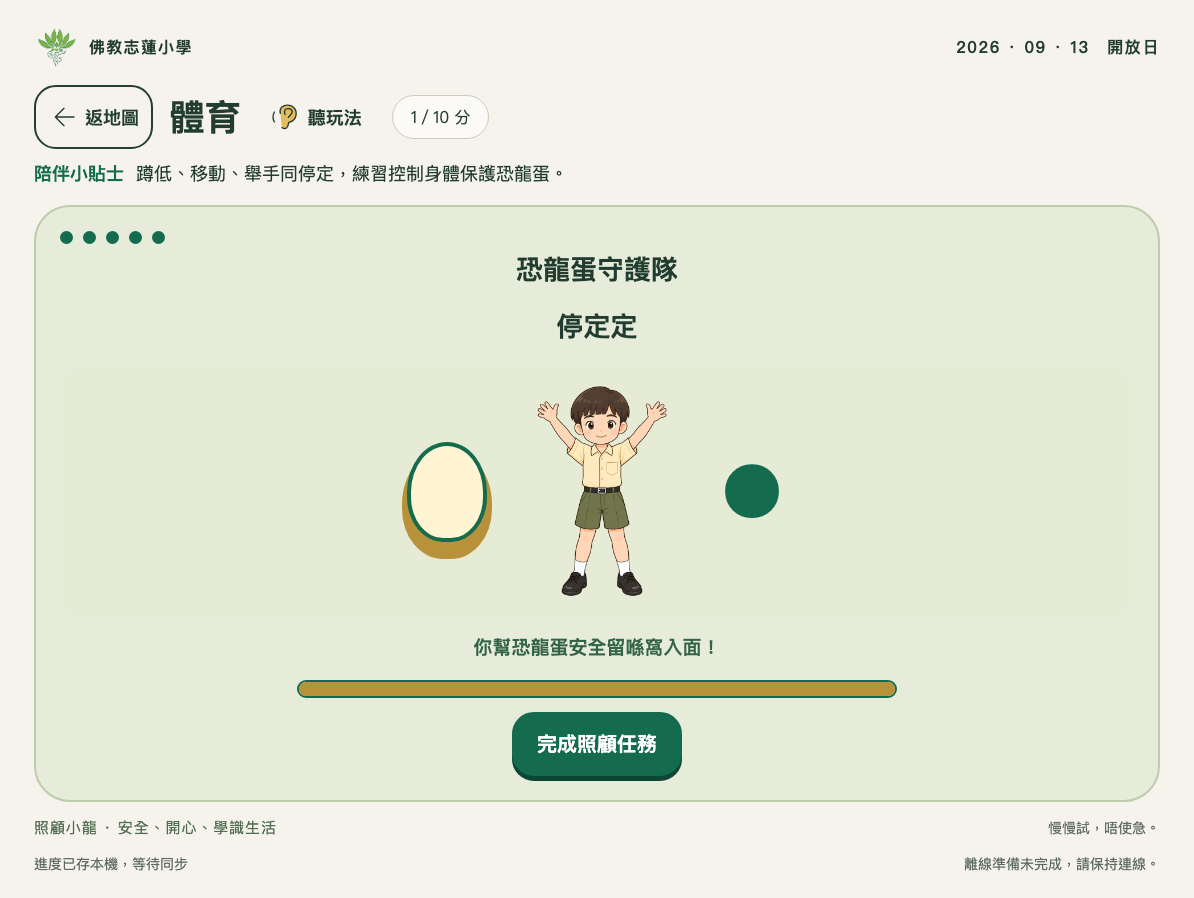
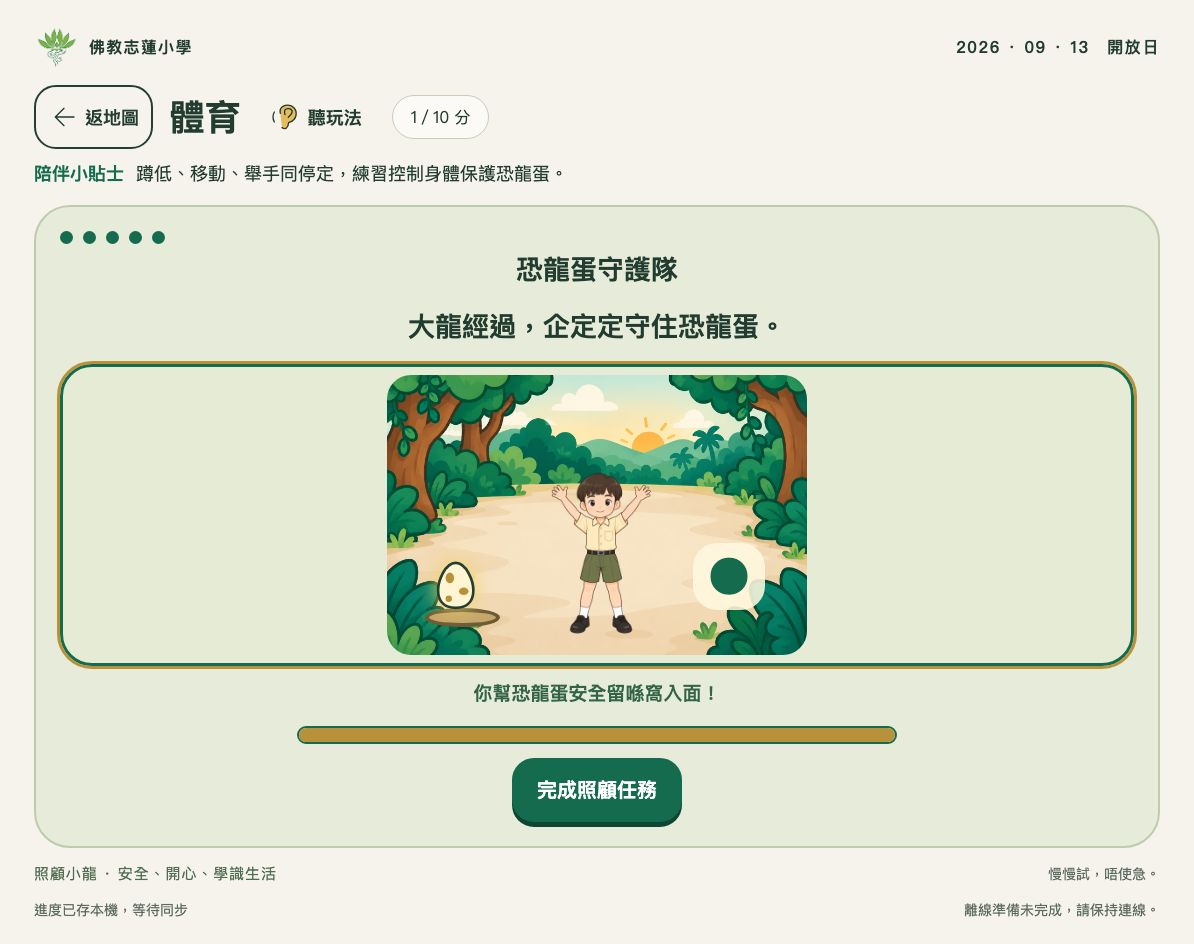
feat: illustrate PE egg protection scenes and obstacle cues

Changed region(s): [[0.031, 0.0312, 0.9606, 0.9978], [0.8677, 0.0312, 0.9916, 0.0624], [0.8057, 0.0312, 0.8367, 0.0624]]

diff --git a/sw.js b/sw.js
@@ -1,7 +1,7 @@
 // Generated precache manifest. Rebuild whenever local assets change.
-const CACHE='dino-island-d1b75bf20b89';
+const CACHE='dino-island-9cf482192c09';
 const BASE=new URL('./',self.location.href);
-const ASSETS=["board/board.css","board/board.js","board/img/board-skin.png","board/index.html","hub/app.js","hub/audio/en/actions/freeze.wav","hub/audio/en/actions/hands.wav","hub/audio/en/actions/jump.wav","hub/audio/en/actions/left.wav","hub/audio/en/actions/right.wav","hub/audio/en/actions/sit.wav","hub/audio/en/actions/stand.wav","hub/audio/yue/actions/freeze.wav","hub/audio/yue/actions/hands.wav","hub/audio/yue/actions/left.wav","hub/audio/yue/actions/right.wav","hub/audio/yue/actions/sit.wav","hub/audio/yue/characters/fire.wav","hub/audio/yue/characters/moon.wav","hub/audio/yue/characters/mountain.wav","hub/audio/yue/characters/sun.wav","hub/audio/yue/characters/water.wav","hub/audio/yue/characters/wood.wav","hub/audio/yue/common/complete.wav","hub/audio/yue/common/hint.wav","hub/audio/yue/common/retry.wav","hub/audio/yue/common/welcome.wav","hub/audio/yue/intro/art.wav","hub/audio/yue/intro/chinese.wav","hub/audio/yue/intro/computing.wav","hub/audio/yue/intro/english.wav","hub/audio/yue/intro/general.wav","hub/audio/yue/intro/humanities.wav","hub/audio/yue/intro/mandarin.wav","hub/audio/yue/intro/math.wav","hub/audio/yue/intro/music.wav","hub/audio/yue/intro/pe.wav","hub/audio/yue/intro/science.wav","hub/audio/zh-CN/greetings/goodbye.wav","hub/audio/zh-CN/greetings/hello.wav","hub/audio/zh-CN/greetings/morning.wav","hub/audio/zh-CN/greetings/please.wav","hub/audio/zh-CN/greetings/thanks.wav","hub/audio/zh-CN/greetings/welcome.wav","hub/certificate.js","hub/games.js","hub/img/chars/dino-baby-eat.png","hub/img/chars/dino-baby-sleep.png","hub/img/chars/dino-baby.png","hub/img/chars/landmark-hatch.png","hub/img/chars/landmark-longneck.png","hub/img/chars/landmark-triceratops.png","hub/img/chars/xiaolian-clap.png","hub/img/chars/xiaolian-color.png","hub/img/chars/xiaolian-highfive.png","hub/img/chars/xiaolian-point.png","hub/img/chars/xiaolian-welcome.png","hub/img/chars/xiaolian-write.png","hub/img/chars/xiaozhi-highfive.png","hub/img/chars/xiaozhi-jump.png","hub/img/chars/xiaozhi-run.png","hub/img/chars/xiaozhi-sit.png","hub/img/chars/xiaozhi-step.png","hub/img/chars/xiaozhi-stretch.png","hub/img/chars/xiaozhi-tablet.png","hub/img/chars/xiaozhi-welcome.png","hub/img/games/art/egg-studio.png","hub/img/games/chinese/mountain.png","hub/img/games/chinese/river.png","hub/img/games/chinese/volcano.png","hub/img/games/general/bedtime.png","hub/img/games/general/daytime.png","hub/img/games/general/morning.png","hub/img/games/humanities/river-centre.png","hub/img/games/humanities/safe-forest.png","hub/img/games/humanities/volcano-edge.png","hub/img/games/mandarin/village.png","hub/img/games/math/feeding-garden.png","hub/img/games/music/music-stage.png","hub/img/games/science/excavation.png","hub/img/map/island-path.png","hub/img/ui/cert-frame.png","hub/index.html","hub/modules/art.js","hub/modules/chinese-scenes.js","hub/modules/computing.js","hub/modules/fossil-art.js","hub/modules/general.js","hub/modules/humanities.js","hub/modules/mandarin.js","hub/modules/math.js","hub/modules/motion.js","hub/modules/music.js","hub/modules/science.js","hub/park-guides.js","index.html","setup/index.html","shared/certificate-link.js","shared/config.js","shared/core.js","shared/game-clock-gate.js","shared/game-state.js","shared/icons.js","shared/img/school-logo.png","shared/models/pose-landmarker-lite-v1.task","shared/network.js","shared/offline.js","shared/pose-actions.js","shared/pose-camera.js","shared/qrcode.js","shared/recorder.js","shared/sequence.js","shared/storage.js","shared/style.css","shared/vendor/mediapipe/vision-bundle.js","shared/vendor/mediapipe/wasm/vision_wasm_internal.js","shared/vendor/mediapipe/wasm/vision_wasm_internal.wasm","shared/vendor/mediapipe/wasm/vision_wasm_nosimd_internal.js","shared/vendor/mediapipe/wasm/vision_wasm_nosimd_internal.wasm","shared/voice.js","hub/","board/","setup/"].map(p=>new URL(p,BASE).href);
+const ASSETS=["board/board.css","board/board.js","board/img/board-skin.png","board/index.html","hub/app.js","hub/audio/en/actions/freeze.wav","hub/audio/en/actions/hands.wav","hub/audio/en/actions/jump.wav","hub/audio/en/actions/left.wav","hub/audio/en/actions/right.wav","hub/audio/en/actions/sit.wav","hub/audio/en/actions/stand.wav","hub/audio/yue/actions/freeze.wav","hub/audio/yue/actions/hands.wav","hub/audio/yue/actions/left.wav","hub/audio/yue/actions/right.wav","hub/audio/yue/actions/sit.wav","hub/audio/yue/characters/fire.wav","hub/audio/yue/characters/moon.wav","hub/audio/yue/characters/mountain.wav","hub/audio/yue/characters/sun.wav","hub/audio/yue/characters/water.wav","hub/audio/yue/characters/wood.wav","hub/audio/yue/common/complete.wav","hub/audio/yue/common/hint.wav","hub/audio/yue/common/retry.wav","hub/audio/yue/common/welcome.wav","hub/audio/yue/intro/art.wav","hub/audio/yue/intro/chinese.wav","hub/audio/yue/intro/computing.wav","hub/audio/yue/intro/english.wav","hub/audio/yue/intro/general.wav","hub/audio/yue/intro/humanities.wav","hub/audio/yue/intro/mandarin.wav","hub/audio/yue/intro/math.wav","hub/audio/yue/intro/music.wav","hub/audio/yue/intro/pe.wav","hub/audio/yue/intro/science.wav","hub/audio/zh-CN/greetings/goodbye.wav","hub/audio/zh-CN/greetings/hello.wav","hub/audio/zh-CN/greetings/morning.wav","hub/audio/zh-CN/greetings/please.wav","hub/audio/zh-CN/greetings/thanks.wav","hub/audio/zh-CN/greetings/welcome.wav","hub/certificate.js","hub/games.js","hub/img/chars/dino-baby-eat.png","hub/img/chars/dino-baby-sleep.png","hub/img/chars/dino-baby.png","hub/img/chars/landmark-hatch.png","hub/img/chars/landmark-longneck.png","hub/img/chars/landmark-triceratops.png","hub/img/chars/xiaolian-clap.png","hub/img/chars/xiaolian-color.png","hub/img/chars/xiaolian-highfive.png","hub/img/chars/xiaolian-point.png","hub/img/chars/xiaolian-welcome.png","hub/img/chars/xiaolian-write.png","hub/img/chars/xiaozhi-highfive.png","hub/img/chars/xiaozhi-jump.png","hub/img/chars/xiaozhi-run.png","hub/img/chars/xiaozhi-sit.png","hub/img/chars/xiaozhi-step.png","hub/img/chars/xiaozhi-stretch.png","hub/img/chars/xiaozhi-tablet.png","hub/img/chars/xiaozhi-welcome.png","hub/img/games/art/egg-studio.png","hub/img/games/chinese/mountain.png","hub/img/games/chinese/river.png","hub/img/games/chinese/volcano.png","hub/img/games/general/bedtime.png","hub/img/games/general/daytime.png","hub/img/games/general/morning.png","hub/img/games/humanities/river-centre.png","hub/img/games/humanities/safe-forest.png","hub/img/games/humanities/volcano-edge.png","hub/img/games/mandarin/village.png","hub/img/games/math/feeding-garden.png","hub/img/games/music/music-stage.png","hub/img/games/pe/forest-arena.png","hub/img/games/pe/forest-visitor.png","hub/img/games/science/excavation.png","hub/img/map/island-path.png","hub/img/ui/cert-frame.png","hub/index.html","hub/modules/art.js","hub/modules/chinese-scenes.js","hub/modules/computing.js","hub/modules/fossil-art.js","hub/modules/general.js","hub/modules/humanities.js","hub/modules/mandarin.js","hub/modules/math.js","hub/modules/motion.js","hub/modules/music.js","hub/modules/pe-scene.js","hub/modules/science.js","hub/park-guides.js","index.html","setup/index.html","shared/certificate-link.js","shared/config.js","shared/core.js","shared/game-clock-gate.js","shared/game-state.js","shared/icons.js","shared/img/school-logo.png","shared/models/pose-landmarker-lite-v1.task","shared/network.js","shared/offline.js","shared/pose-actions.js","shared/pose-camera.js","shared/qrcode.js","shared/recorder.js","shared/sequence.js","shared/storage.js","shared/style.css","shared/vendor/mediapipe/vision-bundle.js","shared/vendor/mediapipe/wasm/vision_wasm_internal.js","shared/vendor/mediapipe/wasm/vision_wasm_internal.wasm","shared/vendor/mediapipe/wasm/vision_wasm_nosimd_internal.js","shared/vendor/mediapipe/wasm/vision_wasm_nosimd_internal.wasm","shared/voice.js","hub/","board/","setup/"].map(p=>new URL(p,BASE).href);
 self.addEventListener('install',e=>e.waitUntil(caches.open(CACHE).then(c=>c.addAll(ASSETS))));
 self.addEventListener('activate',e=>e.waitUntil(Promise.all([caches.keys().then(keys=>Promise.all(keys.filter(k=>k.startsWith('dino-island-')&&k!==CACHE).map(k=>caches.delete(k)))),self.clients.claim()])));
 self.addEventListener('message',e=>{if(e.data?.type!=='CHECK_OFFLINE'||!e.ports[0])return;e.waitUntil(caches.open(CACHE).then(async c=>{const present=await Promise.all(ASSETS.map(url=>c.match(url)));e.ports[0].postMessage({type:'OFFLINE_STATUS',version:CACHE,complete:present.every(Boolean),missing:present.filter(r=>!r).length,total:ASSETS.length});}).catch(()=>e.ports[0].postMessage({type:'OFFLINE_STATUS',complete:false,missing:ASSETS.length,total:ASSETS.length})));});

diff --git a/hub/modules/motion.js b/hub/modules/motion.js
@@ -1,3 +1,4 @@
+import {peScene,peSituations} from './pe-scene.js';
 import {playVoice,stopVoice} from '../../shared/voice.js';
 import {poseCamera} from '../../shared/pose-camera.js';
 import {PoseActions} from '../../shared/pose-actions.js';
@@ -13,7 +14,7 @@ export function mountMotion(root,state,save,finish,lifecycle={},subject='english
  function stop(){request++;poseCamera.stop();cancelAnimationFrame(raf);raf=null;holdStart=null;holdPointer=null;last=null;stopVoice();}
  function render(){
   stopVoice();
-  root.innerHTML=`<div class="rounds" aria-label="第 ${state.round+1} 回合，共 ${sequence.length} 回合">${sequence.map((_,i)=>`<span class="round-dot ${i<=state.round?'done':''}"></span>`).join('')}</div><h2 class="game-instruction">${subject==='english'?'小龍講，你跟住做':'恐龍蛋守護隊'}</h2><p class="game-instruction">${labels[command()]}</p><div class="motion-stage action-${command()}">${subject==='pe'?'<div class="protected-egg" aria-label="要保護嘅恐龍蛋"></div>':''}<img class="character motion-guide" src="img/chars/${subject==='english'?'dino-baby':'xiaozhi-stretch'}.png" alt="動作示範角色"><span class="motion-cue" aria-hidden="true">${cues[command()]}</span><video class="motion-camera" autoplay muted playsinline ${mode==='camera'||mode==='loading'?'':'hidden'} aria-label="本機鏡像動作畫面"></video></div><p class="feedback" role="status">${mode==='success'?(subject==='pe'?'你幫恐龍蛋安全留喺窩入面！':'你聽指令同小龍一齊郁身，小龍好開心！'):mode==='choose'?'平板放穩，家長陪住，預留郁身位置。':mode==='paused'?'鏡頭同計時已暫停，返嚟再準備。':mode==='family'?'一齊跟示範做，倒數完再長按確認。':'準備鏡頭同本機辨識，請稍等。'}</p><div class="motion-progress" role="progressbar" aria-label="動作進度" aria-valuemin="0" aria-valuemax="100" aria-valuenow="0"><span></span></div><div class="actions">${['choose','paused'].includes(mode)?'<button id="motion-camera-start" class="primary">用鏡頭一齊玩</button>':''}${mode!=='success'&&mode!=='family'?'<button id="motion-family" class="'+(state.motionAttempts>=3?'motion-help-highlight':'')+'">同家長一齊做</button>':''}${mode!=='success'?'<button id="motion-listen">聽指令</button>':''}${mode==='family'?'<span class="motion-countdown" aria-live="polite">5</span><button class="primary" id="motion-hold" disabled>準備一齊做</button>':''}${mode==='success'?`<button id="motion-next" class="primary">${state.round===sequence.length-1?'完成照顧任務':'下一個動作'}</button>`:''}</div>`;
+  root.innerHTML=`<div class="rounds" aria-label="第 ${state.round+1} 回合，共 ${sequence.length} 回合">${sequence.map((_,i)=>`<span class="round-dot ${i<=state.round?'done':''}"></span>`).join('')}</div><h2 class="game-instruction">${subject==='english'?'小龍講，你跟住做':'恐龍蛋守護隊'}</h2><p class="game-instruction">${subject==='pe'?peSituations[command()]:labels[command()]}</p><div class="motion-stage action-${command()} ${subject==='pe'?'pe-stage':''} ${mode==='family'?'scene-running':''} ${mode==='success'?'scene-complete':''}">${subject==='pe'?'<div class="pe-scene">'+peScene(command(),mode==='success'):''}<img class="character motion-guide" src="img/chars/${subject==='english'?'dino-baby':'xiaozhi-stretch'}.png" alt="動作示範角色"><span class="motion-cue" aria-hidden="true">${cues[command()]}</span>${subject==='pe'?'</div>':''}<video class="motion-camera" autoplay muted playsinline ${mode==='camera'||mode==='loading'?'':'hidden'} aria-label="本機鏡像動作畫面"></video></div><p class="feedback" role="status">${mode==='success'?(subject==='pe'?'你幫恐龍蛋安全留喺窩入面！':'你聽指令同小龍一齊郁身，小龍好開心！'):mode==='choose'?'平板放穩，家長陪住，預留郁身位置。':mode==='paused'?'鏡頭同計時已暫停，返嚟再準備。':mode==='family'?'一齊跟示範做，倒數完再長按確認。':'準備鏡頭同本機辨識，請稍等。'}</p><div class="motion-progress" role="progressbar" aria-label="動作進度" aria-valuemin="0" aria-valuemax="100" aria-valuenow="0"><span></span></div><div class="actions">${['choose','paused'].includes(mode)?'<button id="motion-camera-start" class="primary">用鏡頭一齊玩</button>':''}${mode!=='success'&&mode!=='family'?'<button id="motion-family" class="'+(state.motionAttempts>=3?'motion-help-highlight':'')+'">同家長一齊做</button>':''}${mode!=='success'?'<button id="motion-listen">聽指令</button>':''}${mode==='family'?'<span class="motion-countdown" aria-live="polite">5</span><button class="primary" id="motion-hold" disabled>準備一齊做</button>':''}${mode==='success'?`<button id="motion-next" class="primary">${state.round===sequence.length-1?'完成照顧任務':'下一個動作'}</button>`:''}</div>`;
   root.querySelector('#motion-camera-start')?.addEventListener('click',launch);
   root.querySelector('#motion-family')?.addEventListener('click',family);
   root.querySelector('#motion-listen')?.addEventListener('click',()=>{playVoice(new URL(`../audio/${subject==='english'?'en':'yue'}/actions/${command()}.wav`,import.meta.url)).then(ok=>{if(!ok)status('指令聲音未能播放，可以跟住圖示同家長一齊做。');});});
@@ -26,7 +27,7 @@ export function mountMotion(root,state,save,finish,lifecycle={},subject='english
   try{
    await poseCamera.start(root.querySelector('video'),(poses,time)=>{
     if(!live||attempt!==request)return;const result=tracker.update(poses,time);
-    if(!commandStarted&&result.status==='ready'){tracker.setCommand(command());commandStarted=true;mode='camera';state.inputMode='camera';save();resume('motion-setup');resume('motion-transition');status('準備好啦，'+labels[command()]+'。');return;}
+    if(!commandStarted&&result.status==='ready'){tracker.setCommand(command());commandStarted=true;mode='camera';root.querySelector('.motion-stage').classList.add('scene-running');state.inputMode='camera';save();resume('motion-setup');resume('motion-transition');status('準備好啦，'+labels[command()]+'。');return;}
     if(!commandStarted){progress(result.progress);status(poseMessages[result.status]||'企定一陣，準備開始。');return;}
     if(result.status==='success'){success();return;}
     // One attempt is eight seconds of visible, confidently tracked movement.

diff --git a/shared/style.css b/shared/style.css
@@ -89,3 +89,27 @@
 .greeting-content{display:grid;grid-template-columns:1fr 1fr;gap:24px;align-items:center;margin-top:16px}
 .greeting-content .greeting-village{margin:0;width:100%}.greeting-dialogue .game-instruction{font-size:24px}.greeting-dialogue .actions{gap:12px}.greeting-dialogue button{font-size:19px;padding:10px 16px}
 @media(max-width:700px){.greeting-content{grid-template-columns:1fr;gap:20px}.greeting-dialogue .game-instruction{font-size:25px}}
+
+/* PE scenery and original SVG props tell the action story without affecting detection. */
+.pe-stage{isolation:isolate;min-height:290px;border:3px solid var(--green);padding-top:40px}
+.pe-backdrop{position:absolute;inset:0;width:100%;height:100%;object-fit:cover;z-index:-2}
+.pe-stage .motion-guide,.pe-stage .motion-cue,.pe-stage .motion-camera{position:relative;z-index:2}
+.pe-stage .motion-cue{background:#fff8dfdf;border-radius:24px;padding:0 12px}
+.pe-egg{position:absolute;width:74px;height:90px;left:10%;bottom:12%;z-index:1}
+.pe-nest{position:absolute;left:9%;bottom:10%;width:100px;height:25px;border-radius:50%;background:#c4a66b;border:4px solid #6b5a35;z-index:0}
+.pe-obstacle{position:absolute;width:100px;height:100px;right:5%;top:5%;z-index:1}
+.action-right .pe-branch{left:4%;right:auto}.action-left .pe-branch{right:4%}
+.pe-stage.scene-running .pe-rock{animation:pe-rock-pass 3.2s ease-in-out infinite}
+.pe-stage.scene-running.action-hands .pe-egg{animation:pe-egg-lower 3s ease-in-out infinite}
+.pe-stage.scene-complete .pe-egg{filter:drop-shadow(0 0 10px #f2d566)}
+@keyframes pe-rock-pass{0%,15%{right:2%;transform:rotate(0)}75%,100%{right:83%;transform:rotate(-100deg)}}
+@keyframes pe-egg-lower{0%,15%{transform:translateY(-135px)}65%,100%{transform:translateY(0)}}
+@media(max-width:600px){.pe-stage{padding-top:70px}.pe-stage .motion-camera{max-width:100%}.pe-egg{width:48px;height:62px;left:5%;bottom:5%}.pe-nest{left:3%;bottom:3%;width:72px;height:20px}.pe-obstacle{width:70px;height:70px}.pe-stage .motion-guide{margin-left:30px}}
+@media(prefers-reduced-motion:reduce){.pe-stage .pe-rock,.pe-stage .pe-egg{animation:none!important}}
+
+.pe-stage{padding:8px;min-height:0;flex-wrap:wrap}
+.pe-scene{position:relative;isolation:isolate;width:min(100%,420px);aspect-ratio:3/2;overflow:hidden;border-radius:24px}
+.pe-scene .motion-guide{position:absolute;width:30%;height:60%;bottom:6%;left:36%;margin:0}
+.pe-scene .motion-cue{position:absolute;right:10%;bottom:16%;font-size:48px}
+.pe-scene .pe-backdrop{object-fit:contain}.pe-scene .pe-nest{width:18%;height:7%}.pe-scene .pe-egg{width:14%;height:25%}
+@media(max-width:600px){.pe-scene .motion-cue{font-size:30px;right:5%;padding:0 8px}.pe-scene .pe-obstacle{width:19%;height:25%}}

diff --git a/hub/modules/pe-scene.js b/hub/modules/pe-scene.js
@@ -1,0 +1,9 @@
+// Original simple game props; character poses remain separate illustrated assets.
+const egg='<path d="M50 10C30 10 17 44 17 61c0 24 15 33 33 33s33-9 33-33C83 44 70 10 50 10Z" fill="#fff5d3" stroke="#243f31" stroke-width="5"/><g fill="#b8923a"><ellipse cx="39" cy="38" rx="8" ry="10"/><ellipse cx="65" cy="63" rx="9" ry="7"/><circle cx="37" cy="77" r="6"/></g>';
+const rock='<path d="M16 67 26 32 52 17 78 30 91 62 70 82 35 84Z" fill="#aaa285" stroke="#243f31" stroke-width="5" stroke-linejoin="round"/><path d="m27 34 28 7 21-11M55 41l-8 29" fill="none" stroke="#d3c9aa" stroke-width="5" stroke-linecap="round"/>';
+const branch='<path d="m12 78 72-52 6 10-72 53Z" fill="#b78a51" stroke="#243f31" stroke-width="5" stroke-linejoin="round"/><path d="m49 53-5-26m22 14 15 19" fill="none" stroke="#243f31" stroke-width="7" stroke-linecap="round"/><path d="M44 30C21 28 26 6 27 7c19 0 26 12 17 23Zm35 29c15-14 29-2 26 5-16 11-23 5-26-5Z" fill="#4a9854" stroke="#243f31" stroke-width="4"/>';
+const svg=(body,label,cls)=>`<svg class="${cls}" viewBox="0 0 110 110" role="img" aria-label="${label}">${body}</svg>`;
+export const peSituations={sit:'圓圓火山石飛過，慢慢蹲低避一避。',left:'右邊有樹枝，向畫面左邊移一步。',right:'左邊有樹枝，向畫面右邊移一步。',hands:'恐龍蛋落嚟啦，舉高雙手接住。',freeze:'大龍經過，企定定守住恐龍蛋。'};
+export function peScene(command,complete){
+ return `<img class="pe-backdrop" src="img/games/pe/${command==='freeze'&&!complete?'forest-visitor':'forest-arena'}.png" alt="${command==='freeze'&&!complete?'友善大龍喺遠處經過':'保護恐龍蛋嘅森林空地'}"><div class="pe-nest" aria-hidden="true"></div>${svg(egg,complete?'安全返到窩入面嘅恐龍蛋':'要保護嘅恐龍蛋','pe-egg')}${!complete&&command==='sit'?svg(rock,'圓圓火山石由右邊飛過','pe-obstacle pe-rock'):!complete&&['left','right'].includes(command)?svg(branch,command==='left'?'右邊嘅樹枝':'左邊嘅樹枝','pe-obstacle pe-branch'):''}`;
+}

diff --git a/design/game-assets/pe-scenes-prompts.md b/design/game-assets/pe-scenes-prompts.md
@@ -1,0 +1,19 @@
+# 體育森林場景及道具
+
+2026-09-10；內置 image_gen，PNG 原檔複製；没有程式去背。
+
+## forest-arena.png
+
+One original landscape 1536x1024 2D preschool game background for Dinosaur Island 'Protect the dinosaur egg'. Reference image is our established illustrated palette and line style ONLY; create an outdoor forest clearing, not a bedroom. Warm cream sandy clearing, rounded emerald forest trees framing the edges, small distant soft hills, warm morning light. Keep central 70% and foreground uncluttered level ground for guide, egg and separately layered moving props. No people, no dinosaurs, no eggs, no rocks or branches obstructing central space. Thick dark green outlines, large rounded shapes, simple flat colours with light soft shading, cream #F6F3EC forest green #146b4d muted gold #b8923a. Eye-level landscape, cheerful, safe, children age3-5. No text, letters, logos, buttons, frames, watermark, photography, realistic textures. Full-bleed opaque illustration.
+
+Reference: hub/img/games/general/morning.png.
+
+## forest-visitor.png
+
+Edit this original forest clearing game background. Keep landscape 1536x1024, every tree, scenery, palette and thick cartoon linework, especially the large empty sandy foreground. Add ONE friendly adult cartoon T-Rex strolling from right to left on the distant rear edge of the clearing, behind where children will be composited in foreground. Dinosaur occupies just 25 percent width and 25 percent height, positioned horizontally centered, vertically between 15 and 42 percent. Distinct amber-gold friendly T-Rex, round snout, two little arms, two sturdy legs in a walking pose, long tail, dark green outline, large gentle eyes, smiling closed mouth, no teeth. Preschool friendly 2D storybook dinosaur, not realistic, not fierce. Do not draw people, eggs, baby dinosaurs, arrows, text, labels, logos or interface. This is a full opaque background variant for a freeze-and-wait game; keep central lower 55 percent entirely empty ground. Match original background line/shading style.
+
+Reference: hub/img/games/pe/forest-arena.png.
+
+## SVG 道具
+
+蛋、圓石及樹枝以原創 SVG 幾何绘製於 hub/modules/pe-scene.js。圓石與落蛋只有場景提示動畫，不作碰撞／失敗判定。小龍教練與完整人物動作仍待補齊；大龍目前係完整背景嘅步行姿勢，並非獨立步行動畫。

diff --git a/docs/GAME-UPDATE-V2.md b/docs/GAME-UPDATE-V2.md
@@ -252,3 +252,10 @@
 內置 image_gen 完成原創村落背景 hub/img/games/mandarin/village.png，參考本專案常識晨間場景嘅線條／配色；只複製原 PNG，沒有程式去背。最終提示於 design/game-assets/mandarin-village-prompt.md。畫面疊現有小蓮與唯一幼龍；專用打招呼／聆聽姿勢仍未完成。橫向左右排位令錄音及下一句按鈕同屏可見，窄屏上下排列。
 
 新增 mandarin-browser.mjs 驗證背景載入、兩角色、390px 無橫向溢出、六句親子跟讀逐句解鎖及完成。voice-browser.mjs 再驗 39 WAV／11 科介紹／虛擬錄音回播；新增背景亦已通過完整離線路由測試。截圖人工檢視桌面及手機排位；不等同真 iPad 或教師讀音驗收。
+
+
+## 2026-09-10：體育森林情境
+
+加入森林空地及遠處友善大龍兩張內置產圖背景，場景採 3:2 保持完整比例。原創 SVG 蛋、圓石及左右樹枝對應蹲低／左右移動／舉手；成功後障礙消失、蛋安全留窩，停定定完成後大龍離開。圓石及落蛋動畫只於親子玩法或鏡頭完成校準後啟動，支援減少動態。原人物動作素材仍須補齊，沒有把現有伸展姿勢當成所有動作定稿。
+
+motion-family-browser 驗證英文七回合、體育五回合、五秒閘門、鬆手重設三秒長按、所有情境素材、完成後清場、390px 無橫向溢出及減少動態；測試時鐘先暫停，避免截圖耗時影響五秒邊界。motion-camera-ui-browser 使用受控骨架資料驗證鏡頭流程仍通過，不代表幼兒實機辨識驗收。場景提示及生成出處在 design/game-assets/pe-scenes-prompts.md。

diff --git a/docs/V2-REVIEW.md b/docs/V2-REVIEW.md
@@ -6,7 +6,7 @@
 
 執行 `npm ci`、`npm run serve`，使用終端顯示的 localhost 網址。`/hub/?demo=1#/map` 可試地圖；`/board/?demo=1` 可看合成榜。示範資料不上傳。普通試玩未配置 Google 時只使用本機榜；沒有成功上傳的證書不顯示 QR。
 
-新版包含 11 科玩法模組、共用本機姿態引擎、普通話本機錄音回播、39 段三語合成聲音，以及數學、常識、科學、人文、視藝、音樂、中文與普通話新增場景。11 科選 10 科、6 分領證、10 分按有效時間排名；每科計時上限 240 秒。
+新版包含 11 科玩法模組、共用本機姿態引擎、普通話本機錄音回播、39 段三語合成聲音，以及數學、常識、科學、人文、視藝、音樂、中文、普通話與體育新增場景。11 科選 10 科、6 分領證、10 分按有效時間排名；每科計時上限 240 秒。
 
 ## 已取得的驗證證據
 
